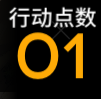
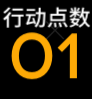
更新打捞使用手册以及一系列小调整
1.更新6-4e打捞使用手册
2.取消M240L打捞拆解人形的设定
3.添加6-4e打捞识别特征图

diff --git a/manual/打捞使用手册.md b/manual/打捞使用手册.md
@@ -82,8 +82,6 @@
 
 ## 6-4e圣捞
 
-使用6-4e圣捞请在设置中打开自动补给，关闭战场信息
-
 梯队部署顺序为
 
 1队开路队
@@ -94,14 +92,18 @@
 
 3队均需携带任意妖精
 
-将地图缩放至最小，并让我方指挥部与下边界、敌方单位计数栏相切，与布局要求图相同即可开启脚本食用
+将地图缩放至最小并从左下往右上拖拽至无法移动
+
+即可开启脚本使用
+
+Man! What can I say? Manba out.
 
 <p align="center">
-          <img alt="地图示例" src="https://cdn.jsdelivr.net/gh/LeonNagant/MaaGF1_Test/example_img/doll_rescure/6-4eRescure_1.png" width="700">
+          <img alt="地图示例" src="https://cdn.jsdelivr.net/gh/LeonNagant/MaaGF1_Test/example_img/doll_rescure/6-4eRescue_1.png" width="700">
           <br><em>正确的地图初始视角，地图布局请尽量和这张图一致！</em>
         </p>
 
 <p align="center">
-          <img alt="梯队示例" src="https://cdn.jsdelivr.net/gh/LeonNagant/MaaGF1_Test/example_img/doll_rescure/6-4eRescure_2.png" width="700">
+          <img alt="梯队示例" src="https://cdn.jsdelivr.net/gh/LeonNagant/MaaGF1_Test/example_img/doll_rescure/6-4eRescue_2.png" width="700">
           <br><em>可以参考的配队示例</em>
         </p>
